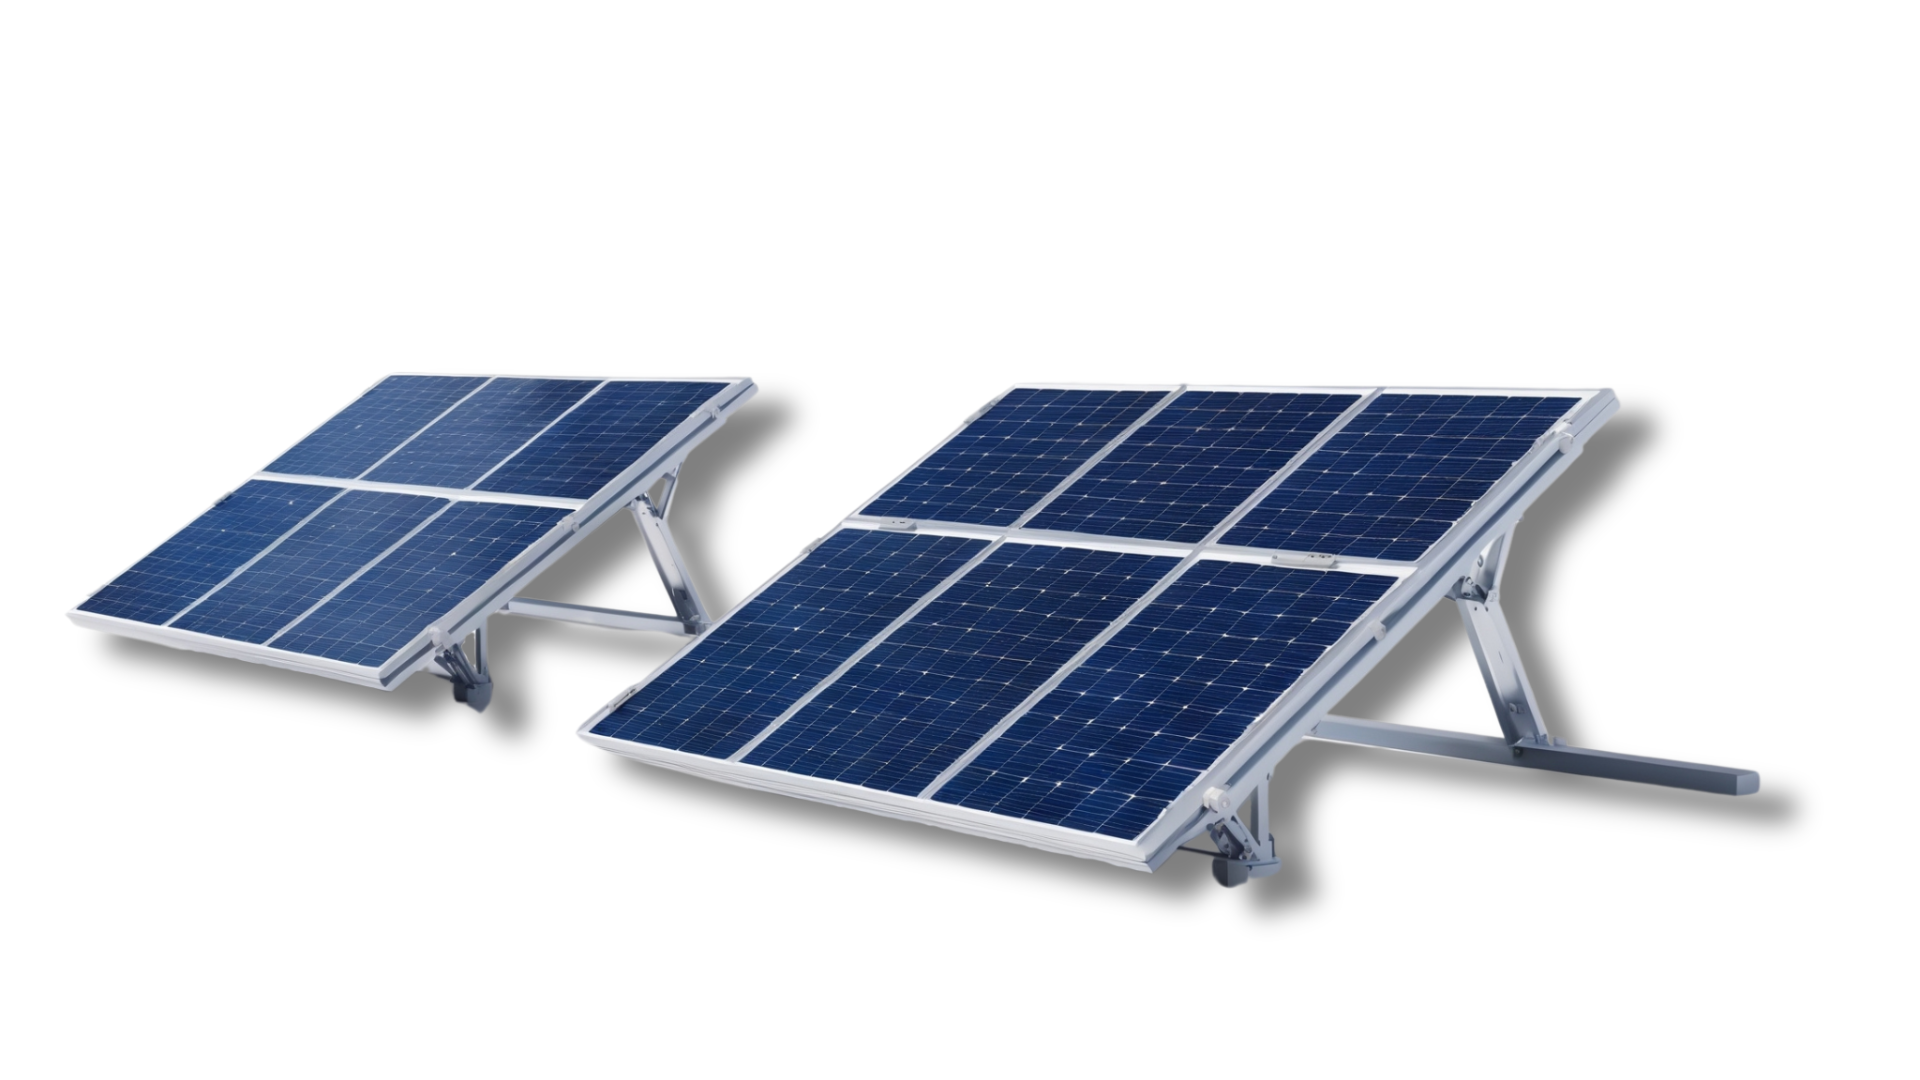
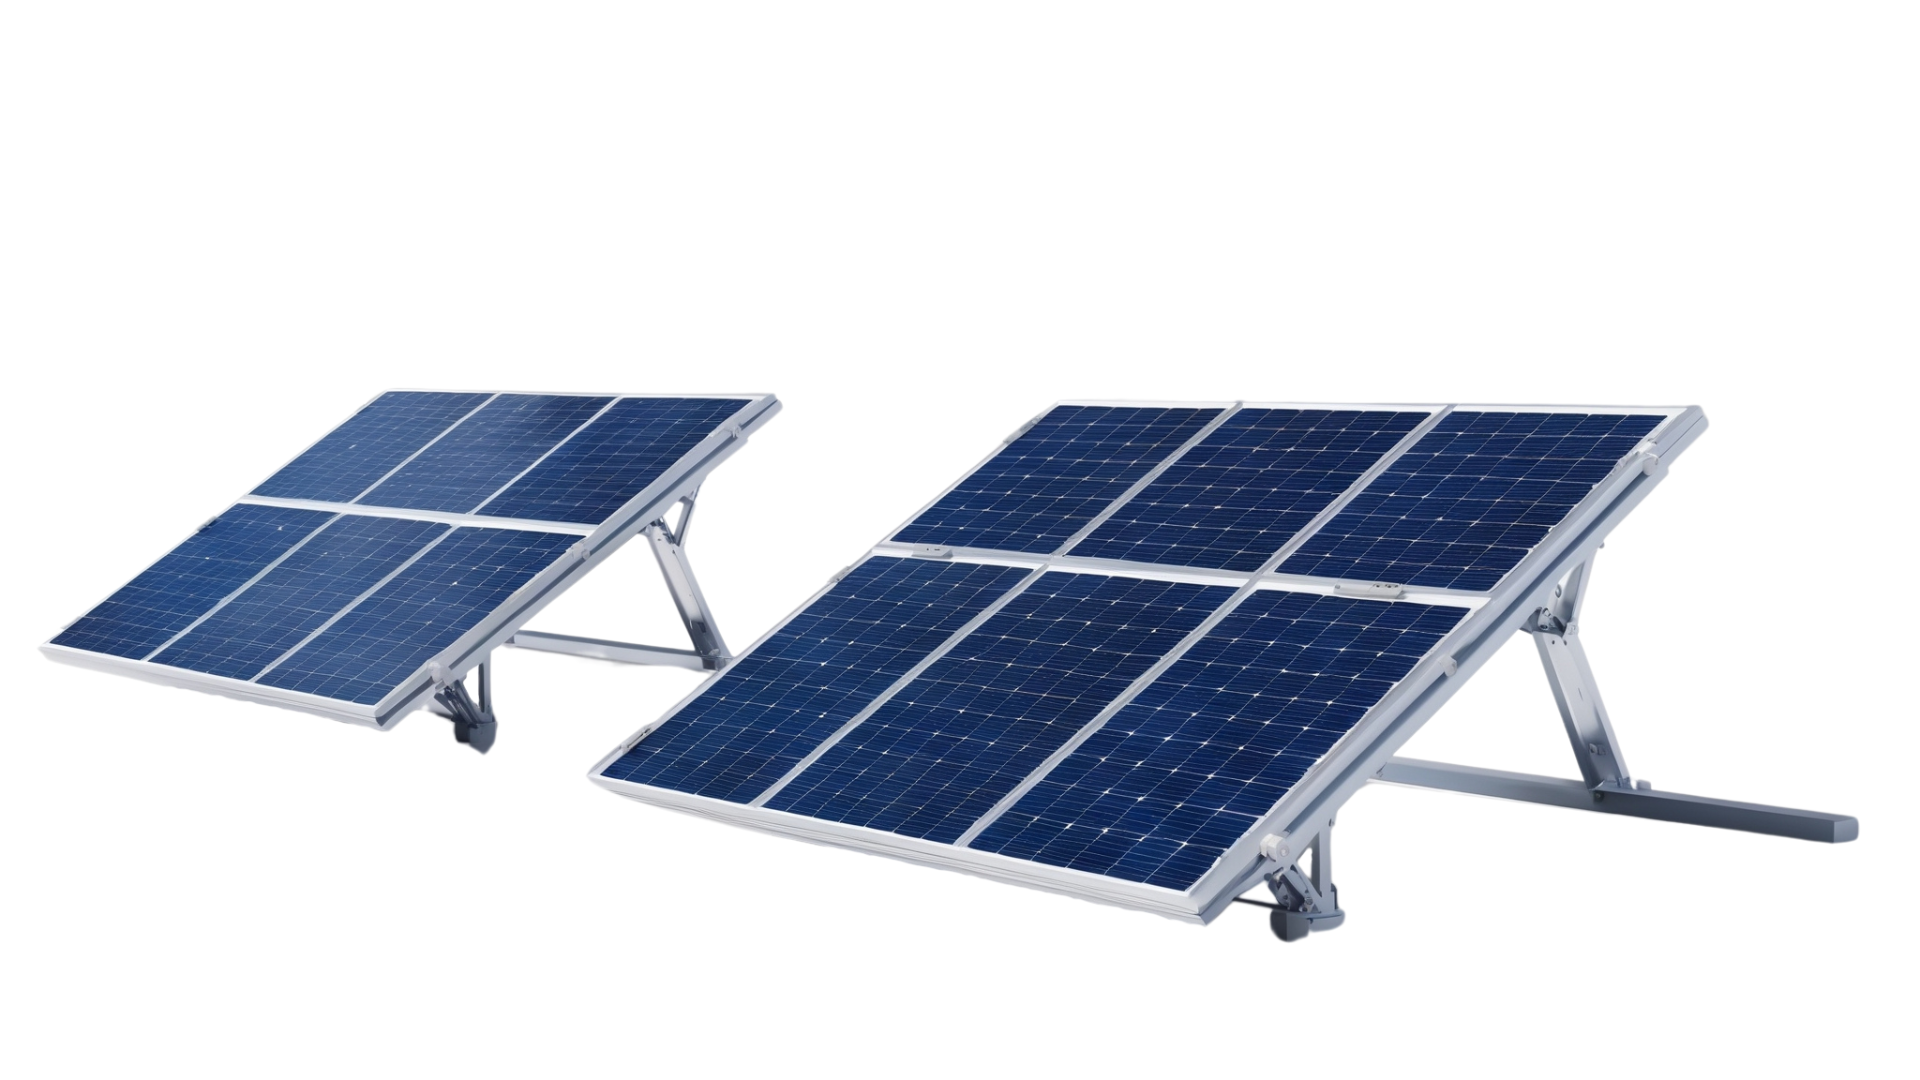
Last changes for 2024-10-22

Changed region(s): [[0.0, 0.3361, 0.9688, 0.8861]]

diff --git a/website/src/app/solutions/carbon-credits/page.tsx b/website/src/app/solutions/carbon-credits/page.tsx
@@ -7,6 +7,7 @@ import FAQ from '@/app/components/FAQ';
 import HeroSectionS2S from '@/app/components/HeroSectionS2S';
 import StepProcess from '@/app/components/OurProcess';
 import { CarbonCreditsProcess } from '@/app/constants/constants';
+import { CarbonCreditsFAQs } from '@/app/constants/constants';
 
 const CarbonCredits = () => {
 
@@ -23,7 +24,7 @@ const CarbonCredits = () => {
                     height={2048}
                 />
                 {/* What Are carbon Credits? */}
-                <section className="relative w-full flex flex-col gap-8 py-10 items-center justify-center px-6 lg:px-12 xl:px-48">
+                <section className="relative w-full flex flex-col gap-8 py-14 items-center justify-center px-6 lg:px-12 xl:px-48">
 
                         {/* Companies buying Carbon Credits */}    
                     <h3 className="text-paynesGray font-medium text-center">Leading companies are investing in carbon credits</h3>
@@ -60,11 +61,12 @@ const CarbonCredits = () => {
                     </div>
                 </section>
 
-                {/* Who is Elibible for Carbon Credits? */}
+                {/* Earn Carbon Credits For Your Business */}
                 <section id='carbon-credits-eligibility' className="relative 
                                                                 bg-paynesGray 
                                                                 w-full
-                                                                p-6 xl:px-48 
+                                                                py-14
+                                                                px-6 xl:px-48 
                                                                 flex 
                                                                 items-center 
                                                                 justify-center 
@@ -76,7 +78,7 @@ const CarbonCredits = () => {
                         <div className='mt-8 flex flex-col w-full lg:flex-row gap-8'>
                             
                             {/*Implement Renewable Energy */}
-                            <div className="bg-antiflashWhite p-4 rounded-3xl shadow-md w-full lg:w-1/3 flex-grow flex flex-col items-start justify-start text-start space-y-4">
+                            <div className="bg-antiflashWhite p-6 rounded-3xl shadow-md w-full lg:w-1/3 flex-grow flex flex-col items-start justify-start text-start space-y-4">
                                 <div className="rounded-full bg-powderBlue p-4 justify-end items-end">
                                     <img src={`${basePath}/icons/Green-Electric.svg`} alt='icon' width={25} height={25} />
                                 </div>
@@ -84,24 +86,14 @@ const CarbonCredits = () => {
                                     Implement Renewable Energy
                                 </h3>
                                 <div className="font-inter text-lg text-charcoal">
-                                    <ul className='list-disc px-5'>
-                                        <li className='mb-2'>
-                                            Install embedded solar systems to reduce grid dependence and improve energy security.
-                                        </li>
-
-                                        <li className='mb-2'>
-                                            Integrate hydrogen fuel cells for backup or primary power in critical operations.
-                                        </li>
-
-                                        <li className='mb-2'>
-                                            Explore wheeled power solutions for areas with limited infrastructure
-                                        </li>
-                                    </ul>
+                                    <p>
+                                    Earn carbon credits by integrating renewable energy sources like solar and wheeling into your business operations. For example, installing solar panels on your premises reduces reliance on fossil fuels, lowers carbon emissions, and generates valuable carbon credits for every ton of CO2 saved.
+                                    </p>
                                 </div>
                             </div>
 
                             {/*Implement Renewable Energy */}
-                            <div className="bg-antiflashWhite p-4 rounded-3xl shadow-md w-full lg:w-1/3 flex flex-grow flex-col items-start justify-start text-start space-y-4">
+                            <div className="bg-antiflashWhite p-6 rounded-3xl shadow-md w-full lg:w-1/3 flex flex-grow flex-col items-start justify-start text-start space-y-4">
                                 <div className="rounded-full bg-powderBlue p-4 justify-end items-end">
                                     <img src={`${basePath}/icons/Efficiency.png`} alt='icon' width={25} height={25} />
                                 </div>
@@ -109,24 +101,14 @@ const CarbonCredits = () => {
                                     Boost Energy Efficiecny
                                 </h3>
                                 <div className="font-inter text-lg text-charcoal">
-                                    <ul className='list-disc px-5'>
-                                        <li className='mb-2'>
-                                            Install embedded solar systems to reduce grid dependence and improve energy security.
-                                        </li>
-
-                                        <li className='mb-2'>
-                                            Integrate hydrogen fuel cells for backup or primary power in critical operations.
-                                        </li>
-
-                                        <li className='mb-2'>
-                                            Explore wheeled power solutions for areas with limited infrastructure
-                                        </li>
-                                    </ul>
+                                    <p>
+                                    Improve your energy efficiency and earn carbon credits by upgrading lighting systems, optimizing HVAC, or adopting energy-efficient equipment. By cutting energy use, your business reduces its carbon footprint, with each kilowatt-hour saved resulting in significant emissions reductions and valuable carbon credits.
+                                    </p>
                                 </div>
                             </div>
 
                             {/*Implement Renewable Energy */}
-                            <div className="bg-antiflashWhite p-4 rounded-3xl shadow-md w-full lg:w-1/3 flex flex-grow flex-col items-start justify-start text-start space-y-4">
+                            <div className="bg-antiflashWhite p-6 rounded-3xl shadow-md w-full lg:w-1/3 flex flex-grow flex-col items-start justify-start text-start space-y-4">
                                 <div className="rounded-full bg-powderBlue p-4 justify-end items-end">
                                     <img src={`${basePath}/icons/sustainable.png`} alt='icon' width={25} height={25} />
                                 </div>
@@ -134,19 +116,9 @@ const CarbonCredits = () => {
                                     Support Sustainable Projects
                                 </h3>
                                 <div className="font-inter text-lg text-charcoal">
-                                    <ul className='list-disc px-5'>
-                                        <li className='mb-2'>
-                                            Install embedded solar systems to reduce grid dependence and improve energy security.
-                                        </li>
-
-                                        <li className='mb-2'>
-                                            Integrate hydrogen fuel cells for backup or primary power in critical operations.
-                                        </li>
-
-                                        <li className='mb-2'>
-                                            Explore wheeled power solutions for areas with limited infrastructure
-                                        </li>
-                                    </ul>
+                                    <p>
+                                    Support certified sustainability projects like carbon sequestration, reforestation, or sustainable agriculture to earn carbon credits. These initiatives capture carbon, reduce emissions, and offset your business's footprint while promoting environmental protection and benefiting global communities.
+                                    </p>
                                 </div>
                             </div>
                         </div>
@@ -160,7 +132,7 @@ const CarbonCredits = () => {
 
 
                 {/*Why is matters for your business? */}
-                <section id='carbon-credits-eco-system' className="flex flex-col lg:flex-row items-center justify-center px-6 gap-16 py-10 xl:px-48">
+                <section id='carbon-credits-eco-system' className="flex flex-col lg:flex-row items-center justify-center px-6 gap-16 py-14 xl:px-48">
 
                     <div className="relative text-start">
                         <h2 className="text-charcoal">Why it matters for your business</h2>
@@ -173,7 +145,7 @@ const CarbonCredits = () => {
                                     </div>
                                     <div className='flex flex-col justify-start items-start gap-2'>
                                         <h4 >Financial Incentives and Cost Savings</h4>
-                                        <p className='text-xl'>Sell the carbon credits you earn to other businesses looking to offset their emissions.</p>
+                                        <p className='text-xl'>Businesses can sell carbon credits to offset emissions, generating revenue while reducing operational costs and boosting profits.</p>
                                     </div>
                                 </li>
 
@@ -183,8 +155,8 @@ const CarbonCredits = () => {
                                             <img src={`${basePath}/icons/compliance.png`} alt='icon' width={25} height={25} />
                                     </div>
                                     <div className='flex flex-col justify-start items-start gap-2'>
-                                        <h4 >Regulatory Compliance and Market Access</h4>
-                                        <p className='text-xl'>Sell the carbon credits you earn to other businesses looking to offset their emissions.</p>
+                                        <h4 >Regulatory Compliance</h4>
+                                        <p className='text-xl'>Carbon credits offset the Carbon Tax under the South African Carbon Tax Act of 2019, which is set to rise to R462 per ton of CO₂ by 2030.</p>
                                     </div>
                                 </li>
 
@@ -196,7 +168,7 @@ const CarbonCredits = () => {
                                     </div>
                                     <div className='flex flex-col justify-start items-start gap-2'>
                                         <h4 >Strengthen Brand Reputation and Competitiveness</h4>
-                                        <p className='text-xl'>Sell the carbon credits you earn to other businesses looking to offset their emissions.</p>
+                                        <p className='text-xl'>Earning carbon credits strengthens your brand's sustainability reputation, attracting eco-conscious investors and giving you a competitive edge.</p>
                                     </div>
                                 </li>
 
@@ -214,9 +186,39 @@ const CarbonCredits = () => {
 
                 </section>
 
+                {/* Credible Credits & Partners */}
+                <section id='carbon-credits-eligibility' className="relative 
+                                                                bg-paynesGray 
+                                                                w-full
+                                                                py-14
+                                                                px-6 xl:px-48 
+                                                                flex 
+                                                                items-center 
+                                                                justify-center 
+                                                                overflow-hidden">
+
+                    <div className="text-center">
+                        
+                        <div className='mt-8 flex flex-col w-full lg:flex-row gap-8'>
+                            <div className='text-start w-1/2'>
+                                <h2 className="text-antiflashWhite">Achieve Global Recognition with Verra-Verified Carbon Credits</h2>
+                                <p className='text-antiflashWhite py-6'>
+                                We register your carbon credits under Verra, the world’s top certification standard, with third-party validation from a Verra-accredited auditor to ensure unmatched credibility.
+                                </p>
+                            </div>
+                            
+                        </div>
+                    
+                        <div className='mt-6 flex align-middle items-start justify-start'>
+                            <AltGetInTouchButton />
+                        </div>
+
+                    </div>
+                </ section>
+
 
                 {/* Our Process */}
-                <section id='how-it-works-carbon-credits' className="relative w-full flex p-6 items-center justify-center">
+                <section id='how-it-works-carbon-credits' className="relative w-full flex px-6 py-14 items-center justify-center">
 
                     <div className="relative text-center">
                         <h2 className="text-charcoal">How it works</h2>
@@ -233,12 +235,13 @@ const CarbonCredits = () => {
                 </section>
 
                 {/* FAQ */}
-                <section id='carbon-credits-faq' className="relative w-full p-6 flex items-center justify-center">
+                <section id='carbon-credits-faq' className="relative w-full px-6 py-14 flex items-center justify-center">
 
                     <div className="text-xl relative text-center md:w-[600px] lg:w-[800px]">
                         <h2 className="text-charcoal">Frequently asked questions</h2>
                        
-                        < FAQ />
+                        < FAQ 
+                        faqItems={CarbonCreditsFAQs}/>
 
                     </div>
 

diff --git a/website/src/app/constants/constants.ts b/website/src/app/constants/constants.ts
@@ -61,25 +61,67 @@ export const PHONE_NUMBER = '+123 456 7890';
 export const ADDRESS = '123 Street, Johannesburg, South Africa';
 
 //Carbon Credits Process
-export const CarbonCreditsProcess = [
+export interface ProcessSteps {
+  title: string;
+  description: string;
+}
+
+export const CarbonCreditsProcess: ProcessSteps[] = [
     {
-      title: "Financial Incentives and Cost Savings",
-      description: "Sell the carbon credits you earn to other businesses looking to offset their emissions.",
-      icon: "/icons/benefits.png"
+      title: "Project Concept & Design",
+      description: "Identify a project that reduces carbon emissions, an meets Verra's eligibilty criteria."
     },
     {
-      title: "Regulatory Compliance and Market Access",
-      description: "Ensure compliance with carbon regulations while opening new markets for your business.",
-      icon: "/icons/compliance.png"
+      title: "Prepare Project Design Document (PDD)",
+      description: "The PDD outlines your project’s carbon reduction potential, baseline emissions, and monitoring plans."
     },
     {
-      title: "Next Step",
-      description: "Ensure compliance with carbon regulations while opening new markets for your business.",
-      icon: "/icons/compliance.png"
+      title: "Validation by Third Party Auditors",
+      description: "An independent verifier reviews the PDD to ensure the project can deliver the expected emission reductions."
     },
     {
-      title: "Strengthen Brand Reputation and Competitiveness",
-      description: "Enhance your brand by showcasing your commitment to sustainability.",
-      icon: "/icons/brand-rep.png"
+      title: "Project Registration",
+      description: "Once validated, the project is registered with Verra and listed as an official carbon credit-generating project."
+    },
+    {
+      title: "Monitoring & Verification",
+      description: "Once the project is active, emission reductions must be monitored, reported and submitted to Verra for verification."
+    },
+    {
+      title: "Issuance of Carbon Credits",
+      description: "Once the reductions are verified, Verra issues carbon credits based on the amount of CO2 reduced. These credits can then be traded or sold."
     }
   ];
+
+  export const CarbonCreditsFAQs = [
+    {
+      question: "What are carbon credits?",
+      answer: "Carbon credits are certificates that represent the reduction or removal of one metric ton of CO2 or equivalent greenhouse gases, generated by sustainable projects like renewable energy or reforestation."
+    },
+    {
+      "question": "How do carbon credits work in South Africa?",
+      "answer": "In South Africa, carbon credits help businesses comply with the Carbon Tax Act of 2019, which imposes taxes on carbon emissions. Companies can use credits to reduce their tax liability by offsetting their emissions through certified projects like renewable energy or conservation efforts."
+    },
+    {
+      "question": "What is the difference between carbon credit and offset?",
+      "answer": "A carbon credit is a tradable certificate representing one ton of CO2 emissions reduced or removed from the atmosphere through specific projects. It is often traded in regulated or voluntary carbon markets. A carbon offset, on the other hand, refers to the broader practice of compensating for emissions by investing in projects that reduce or capture CO2, which may include purchasing carbon credits as one way of offsetting emissions. In short, carbon credits are specific units used within carbon offsetting projects."
+    },
+    {
+      question: "How do carbon credits help businesses reduce emissions?",
+      answer: "Businesses can buy carbon credits to offset their emissions, supporting projects that reduce or capture CO2, such as forest conservation or methane capture from landfills."
+    },
+    {
+      question: "What is the difference between voluntary and compliance carbon markets?",
+      answer: "In voluntary markets, companies choose to buy carbon credits to offset emissions, while compliance markets are regulated by governments and require companies to meet specific emissions caps."
+    },
+    {
+      question: "Can businesses sell carbon credits?",
+      answer: "Yes, businesses that generate surplus carbon credits through sustainability projects can sell them to other companies that need to offset their emissions."
+    },
+    {
+      "question": "How much is a carbon credit worth?",
+      "answer": "The value of a carbon credit varies depending on factors such as project type and market conditions. In South Africa, as of 2024, carbon credits are valued on average arounf R150 per ton of CO2."
+    }
+    
+  ]
+  

diff --git a/website/src/app/components/FAQ.tsx b/website/src/app/components/FAQ.tsx
@@ -7,6 +7,10 @@ interface FAQItemProps {
   answer: string;
 }
 
+interface FAQProps {
+  faqItems: FAQItemProps[]
+}
+
 const FAQItem: React.FC<FAQItemProps> = ({ question, answer }) => {
   const [isOpen, setIsOpen] = useState(false);
 
@@ -34,20 +38,8 @@ const FAQItem: React.FC<FAQItemProps> = ({ question, answer }) => {
   );
 };
 
-const FAQ: React.FC = () => {
-  const faqItems = [
-    {
-      question: "What is a carbon credit?",
-      answer:
-        "A carbon credit is a permit that allows the emission of one ton of carbon dioxide or equivalent greenhouse gases.",
-    },
-    {
-      question: "How do carbon credits help with climate change?",
-      answer:
-        "Carbon credits reduce the overall amount of greenhouse gases by funding projects like reforestation and renewable energy.",
-    },
-    // Add more FAQs here
-  ];
+const FAQ: React.FC<FAQProps> = ({ faqItems }) => {
+  
 
   return (
     <div className="flex justify-center items-center">

diff --git a/website/src/app/solutions/hydrogen-technologies/page.tsx b/website/src/app/solutions/hydrogen-technologies/page.tsx
@@ -17,7 +17,7 @@ const HydrogenTechnologies = () => {
                 <HeroSectionS2S 
                     title='Maximize Generator & Engine Efficiency With Hydrogen'
                     subtitle='A carbon credit is a certificate representing the reduction of one ton of CO₂ from the atmosphere. Businesses can earn or purchase them by investing in emission-reducing projects like renewable energy or reforestation.'
-                    imagePath={`${basePath}/images/Hydrogen-Hero-Image.png`}
+                    imagePath={`${basePath}/images/Hydrogen-Hero-Image-2.png`}
                     altText='Three Wind Turbines'
                     width={1920}
                     height={1080}

diff --git a/website/src/app/components/OurProcess.tsx b/website/src/app/components/OurProcess.tsx
@@ -4,7 +4,6 @@
 type Step = {
   title: string;
   description: string;
-  icon: string;
 };
 
 // Define the props type for StepProcess
